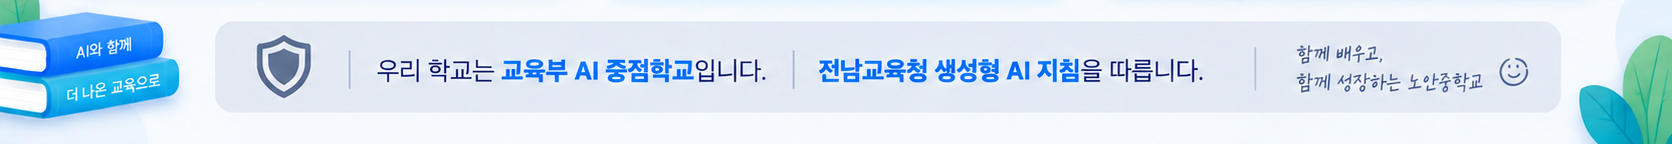
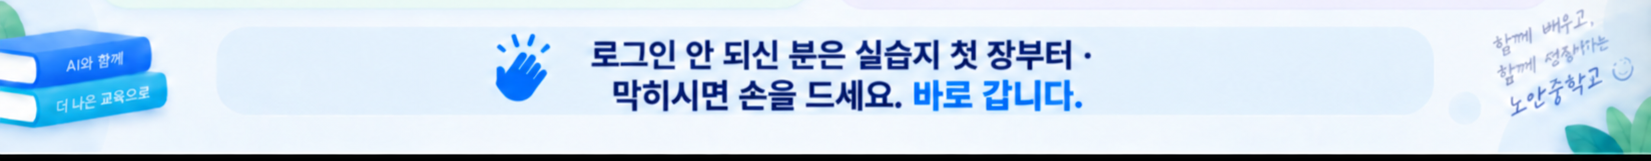
feat: 1회차 덱 v3 — 기업 변화 장 제외, 2부 실습 장 새 시안 (18장)
- 03 「기업 변화」 장을 뺀다. 이후 장은 번호만 당겨진다
- 17 「2부 실습」 을 새 시안으로 (q17-* · 검색창 칩 · QR 포함)
- 더 쓰지 않는 에셋 16개 삭제 (옛 기업 변화 w18-* · 옛 2부 실습 p16-*)
  logo.png · s01-cover.png 는 다른 페이지가 써서 남긴다

셸·CSS·deck-stage.js 는 그대로. 전체화면 잘림 수정 유지.

diff --git a/training/s1.html b/training/s1.html
@@ -114,27 +114,14 @@ video[data-scene-video]:-webkit-full-screen {
   <img src="assets/s1/v02-f.png" alt="" style="position:absolute;left:0px;top:551px;width:1280px;height:169px;display:block;--d:0.75s" data-anim="in">
 </section>
 
-<section id="s3" data-label="03 기업 변화" data-screen-label="03" data-speaker-notes="기사를 먼저 짚는다 — 「40년 쓰던 자소서가 1년 만에 바뀌었습니다」. 표는 회사 이름만 읽어도 충분하다. 오른쪽 문항은 실제 채용 공고라는 걸 강조. 아래 세 칸은 손으로 짚어가며 「기업이 보는 건 AI를 활용한 경험, 그건 수업에서 생기고, 그래서 오늘 선생님이 먼저 해보시는 겁니다」. 마지막 줄에서 잠깐 멈출 것." style="background:#f4f8ff;font-family:-apple-system,'Apple SD Gothic Neo','Malgun Gothic',system-ui,sans-serif;color:#0b2e65">
-  <img src="assets/s1/w18-head.png" alt="" style="position:absolute;left:0px;top:0px;width:1280px;height:180px;display:block;--d:0.05s" data-anim="in">
-  <img src="assets/s1/w18-news.png" alt="" style="position:absolute;left:222px;top:180px;width:249px;height:302px;display:block;--d:0.5s" data-anim="slide-slow">
-  <img src="assets/s1/w18-table.png" alt="" style="position:absolute;left:471px;top:180px;width:491px;height:302px;display:block;--d:1.1s" data-anim="slide-slow">
-  <img src="assets/s1/w18-rbox.png" alt="" style="position:absolute;left:962px;top:180px;width:318px;height:302px;display:block;--d:1.7s" data-anim="slide-slow">
-  <img src="assets/s1/w18-left.png" alt="" style="position:absolute;left:0px;top:180px;width:222px;height:540px;display:block;--d:2.2s" data-anim="in">
-  <img src="assets/s1/w18-f1.png" alt="" style="position:absolute;left:222px;top:482px;width:366px;height:126px;display:block;--d:2.7s" data-anim="slide-slow">
-  <img src="assets/s1/w18-f2.png" alt="" style="position:absolute;left:588px;top:482px;width:354px;height:126px;display:block;--d:3.2s" data-anim="slide-slow">
-  <img src="assets/s1/w18-f3.png" alt="" style="position:absolute;left:942px;top:482px;width:185px;height:126px;display:block;--d:3.7s" data-anim="slide-slow">
-  <img src="assets/s1/w18-side.png" alt="" style="position:absolute;left:1127px;top:482px;width:153px;height:238px;display:block;--d:4.1s" data-anim="in">
-  <img src="assets/s1/w18-banner.png" alt="" style="position:absolute;left:222px;top:608px;width:905px;height:112px;display:block;--d:4.5s" data-anim="in">
-</section>
-
-<section id="s4" data-label="04 오늘 끝나면 세 가지" data-screen-label="04" data-speaker-notes="30초. 「실습은 2부에 15분, 짝으로 합니다」를 여기서. 03번 「내일 쓸 것 하나」는 마지막 설문에서 한 줄 적어 가시는 것이라고 짚어준다." style="background:#f4f8ff;font-family:-apple-system,'Apple SD Gothic Neo','Malgun Gothic',system-ui,sans-serif;color:#14161c">
+<section id="s3" data-label="03 오늘 끝나면 세 가지" data-screen-label="03" data-speaker-notes="30초. 「실습은 2부에 15분, 짝으로 합니다」를 여기서. 03번 「내일 쓸 것 하나」는 마지막 설문에서 한 줄 적어 가시는 것이라고 짚어준다." style="background:#f4f8ff;font-family:-apple-system,'Apple SD Gothic Neo','Malgun Gothic',system-ui,sans-serif;color:#14161c">
   <img src="assets/s1/v04-h.png" alt="" style="position:absolute;left:0px;top:0px;width:1280px;height:223px;display:block;--d:0.04s" data-anim="in">
   <img src="assets/s1/v04-c1.png" alt="" style="position:absolute;left:0px;top:223px;width:484px;height:497px;display:block;--d:0.35s" data-anim="slide">
   <img src="assets/s1/v04-c2.png" alt="" style="position:absolute;left:484px;top:223px;width:314px;height:497px;display:block;--d:0.6s" data-anim="slide">
   <img src="assets/s1/v04-c3.png" alt="" style="position:absolute;left:798px;top:223px;width:482px;height:497px;display:block;--d:0.85s" data-anim="slide">
 </section>
 
-<section id="s5" data-label="05 지금 어디쯤" data-screen-label="05" data-speaker-notes="30초. 「진입이어도 전혀 문제없습니다」를 반드시 말할 것. 사전 설문에도 같은 문항이 있으니 12월에 비교한다." style="background:#f4f8ff;font-family:-apple-system,'Apple SD Gothic Neo','Malgun Gothic',system-ui,sans-serif;color:#14161c">
+<section id="s4" data-label="04 지금 어디쯤" data-screen-label="04" data-speaker-notes="30초. 「진입이어도 전혀 문제없습니다」를 반드시 말할 것. 사전 설문에도 같은 문항이 있으니 12월에 비교한다." style="background:#f4f8ff;font-family:-apple-system,'Apple SD Gothic Neo','Malgun Gothic',system-ui,sans-serif;color:#14161c">
   <img src="assets/s1/b04-h.png" alt="" style="position:absolute;left:0px;top:0px;width:1280px;height:224px;display:block;--d:0.04s" data-anim="in">
   <img src="assets/s1/b04-c1.png" alt="" style="position:absolute;left:0px;top:224px;width:469px;height:284px;display:block;--d:0.26s" data-anim="slide">
   <img src="assets/s1/b04-c2.png" alt="" style="position:absolute;left:469px;top:224px;width:351px;height:284px;display:block;--d:0.42000000000000004s" data-anim="slide">
@@ -142,7 +129,7 @@ video[data-scene-video]:-webkit-full-screen {
   <img src="assets/s1/b04-f.png" alt="" style="position:absolute;left:0px;top:508px;width:1280px;height:212px;display:block;--d:0.78s" data-anim="in">
 </section>
 
-<section id="s6" data-label="06 소개" data-screen-label="06" data-speaker-notes="40초. 항목을 다 읽지 말 것. 「LG전자 DX School 5기 최우수상, 다섯 명 팀 총괄」 한 줄과 사진 캡션 「제8회 K-디지털 트레이닝 해커톤 현장」만 짚는다. 수상 세 줄·학력·활동은 화면에 있으니 눈으로 보시게 둔다. 소리 내어 말할 문장은 마지막 「AI를 만들고, 교육합니다」 하나. 여기서 길어지면 뒤가 밀린다." style="background:#f4f8ff;font-family:-apple-system,'Apple SD Gothic Neo','Malgun Gothic',system-ui,sans-serif;color:#0b2e65">
+<section id="s5" data-label="05 소개" data-screen-label="05" data-speaker-notes="40초. 항목을 다 읽지 말 것. 「LG전자 DX School 5기 최우수상, 다섯 명 팀 총괄」 한 줄과 사진 캡션 「제8회 K-디지털 트레이닝 해커톤 현장」만 짚는다. 수상 세 줄·학력·활동은 화면에 있으니 눈으로 보시게 둔다. 소리 내어 말할 문장은 마지막 「AI를 만들고, 교육합니다」 하나. 여기서 길어지면 뒤가 밀린다." style="background:#f4f8ff;font-family:-apple-system,'Apple SD Gothic Neo','Malgun Gothic',system-ui,sans-serif;color:#0b2e65">
   <img src="assets/s1/y06-h.png" alt="" style="position:absolute;left:0px;top:0px;width:1280px;height:42px;display:block;--d:0.05s" data-anim="in">
   <img src="assets/s1/y06-lname.png" alt="" style="position:absolute;left:0px;top:42px;width:459px;height:308px;display:block;--d:0.3s" data-anim="in">
   <img src="assets/s1/y06-lbox.png" alt="" style="position:absolute;left:0px;top:350px;width:459px;height:212px;display:block;--d:0.7s" data-anim="in">
@@ -154,7 +141,7 @@ video[data-scene-video]:-webkit-full-screen {
   <img src="assets/s1/y06-r4.png" alt="" style="position:absolute;left:459px;top:580px;width:821px;height:140px;display:block;--d:3.1s" data-anim="slide-slow">
 </section>
 
-<section id="s7" data-label="07 세 가지가 바뀌었다" data-screen-label="07" data-speaker-notes="여기서 기술 용어(LLM, 에이전트, 멀티모달) 쓰지 말 것. 변화 3만 짚고 넘어간다." style="background:#f4f8ff;font-family:-apple-system,'Apple SD Gothic Neo','Malgun Gothic',system-ui,sans-serif;color:#14161c">
+<section id="s6" data-label="06 세 가지가 바뀌었다" data-screen-label="06" data-speaker-notes="여기서 기술 용어(LLM, 에이전트, 멀티모달) 쓰지 말 것. 변화 3만 짚고 넘어간다." style="background:#f4f8ff;font-family:-apple-system,'Apple SD Gothic Neo','Malgun Gothic',system-ui,sans-serif;color:#14161c">
   <img src="assets/s1/b06-h.png" alt="" style="position:absolute;left:0px;top:0px;width:1280px;height:248px;display:block;--d:0.04s" data-anim="in">
   <img src="assets/s1/b06-c1.png" alt="" style="position:absolute;left:0px;top:248px;width:472px;height:387px;display:block;--d:0.35s" data-anim="slide-slow">
   <img src="assets/s1/b06-c2.png" alt="" style="position:absolute;left:472px;top:248px;width:341px;height:387px;display:block;--d:0.85s" data-anim="slide-slow">
@@ -162,12 +149,12 @@ video[data-scene-video]:-webkit-full-screen {
   <img src="assets/s1/b06-f.png" alt="" style="position:absolute;left:0px;top:635px;width:1280px;height:85px;display:block;--d:1.85s" data-anim="in">
 </section>
 
-<section id="s8" data-label="08 영상" data-screen-label="08" data-speaker-notes="영상으로 먼저 보여드린다. 말은 얹지 말고, 끝난 뒤 「이런 걸 오늘 해봅니다」 한 문장만. 소리 없이 돌린다." style="background:#f4f8ff;font-family:-apple-system,'Apple SD Gothic Neo','Malgun Gothic',system-ui,sans-serif;color:#0b2e65">
+<section id="s7" data-label="07 영상" data-screen-label="07" data-speaker-notes="영상으로 먼저 보여드린다. 말은 얹지 말고, 끝난 뒤 「이런 걸 오늘 해봅니다」 한 문장만. 소리 없이 돌린다." style="background:#f4f8ff;font-family:-apple-system,'Apple SD Gothic Neo','Malgun Gothic',system-ui,sans-serif;color:#0b2e65">
   <video data-scene-video="" src="assets/s1/s07b-intro.mp4" muted="" loop="" playsinline="" preload="auto" style="position:absolute;left:454px;top:30px;width:371px;height:660px;border-radius:16px;object-fit:cover;display:block;background:#dbe3ec;border:0;--d:0s"></video>
   <div data-video-controls="" style="position:absolute;left:845px;top:606px;width:116px;height:52px;display:flex;gap:12px;align-items:center;justify-content:flex-end;--d:0.35s" data-anim="in"><button type="button" data-vc="toggle" aria-label="재생·일시정지" style="width:52px;height:52px;border:0;border-radius:9999px;background:rgba(11,46,101,.72);color:#fff;display:flex;align-items:center;justify-content:center;cursor:pointer;padding:0;box-shadow:0 2px 10px rgba(11,46,101,.28)"><span style="display:flex;align-items:center;justify-content:center"><svg width="22" height="22" viewBox="0 0 24 24" fill="currentColor" data-vc-play=""><path d="M8 5.5v13l11-6.5z"></path></svg><svg width="22" height="22" viewBox="0 0 24 24" fill="currentColor" data-vc-pause="" style="display:none"><path d="M7 5h3.4v14H7zM13.6 5H17v14h-3.4z"></path></svg></span></button><button type="button" data-vc="full" aria-label="전체화면" style="width:52px;height:52px;border:0;border-radius:9999px;background:rgba(11,46,101,.72);color:#fff;display:flex;align-items:center;justify-content:center;cursor:pointer;padding:0;box-shadow:0 2px 10px rgba(11,46,101,.28)"><span style="display:flex;align-items:center;justify-content:center"><svg data-vc-open="" width="22" height="22" viewBox="0 0 24 24" fill="none" stroke="currentColor" stroke-width="2.2" stroke-linecap="round" stroke-linejoin="round"><path d="M4 9V4h5M20 9V4h-5M4 15v5h5M20 15v5h-5"></path></svg><svg data-vc-close="" width="22" height="22" viewBox="0 0 24 24" fill="none" stroke="currentColor" stroke-width="2.2" stroke-linecap="round" stroke-linejoin="round" style="display:none"><path d="M9 4v5H4M15 4v5h5M9 20v-5H4M15 20v-5h5"></path></svg></span></button></div>
 </section>
 
-<section id="s9" data-label="09 전체 지도" data-screen-label="09" data-speaker-notes="[시간 부족 시 생략 가능] 카드가 하나씩 나옵니다. 나오는 대로 카테고리 이름만 읽어드린다 — 도구 이름은 읽지 말 것. 일곱 장이 다 나오는 데 7초. 마지막 파란 띠 「도구는 많지만, 오늘은 다 보지 않습니다」에서 멈추고 다음 장으로." style="background:#f4f8ff;font-family:-apple-system,'Apple SD Gothic Neo','Malgun Gothic',system-ui,sans-serif;color:#0b2e65">
+<section id="s8" data-label="08 전체 지도" data-screen-label="08" data-speaker-notes="[시간 부족 시 생략 가능] 카드가 하나씩 나옵니다. 나오는 대로 카테고리 이름만 읽어드린다 — 도구 이름은 읽지 말 것. 일곱 장이 다 나오는 데 7초. 마지막 파란 띠 「도구는 많지만, 오늘은 다 보지 않습니다」에서 멈추고 다음 장으로." style="background:#f4f8ff;font-family:-apple-system,'Apple SD Gothic Neo','Malgun Gothic',system-ui,sans-serif;color:#0b2e65">
   <img src="assets/s1/m07-h.png" alt="" style="position:absolute;left:0px;top:0px;width:1280px;height:205px;display:block;--d:0.05s" data-anim="in">
   <img src="assets/s1/m07-a1.png" alt="" style="position:absolute;left:0px;top:205px;width:342px;height:180px;display:block;--d:0.5s" data-anim="slide-slow">
   <img src="assets/s1/m07-a2.png" alt="" style="position:absolute;left:342px;top:205px;width:318px;height:180px;display:block;--d:1.4s" data-anim="slide-slow">
@@ -181,7 +168,7 @@ video[data-scene-video]:-webkit-full-screen {
   <img src="assets/s1/box-miri.png" alt="" style="position:absolute;left:377px;top:321px;width:116px;height:41px;display:block;border-radius:8px;--d:7.9s" data-anim="pop">
 </section>
 
-<section id="s10" data-label="10 오늘 쓸 건 둘" data-screen-label="10" data-speaker-notes="이제 둘만 씁니다. 「쓰고 고치고 찾는 일은 JneGPT, 보여줄 것 만드는 일은 미리캔버스」 한 문장으로. 아래 목록은 읽지 말 것 — 다음 장면에서 다 보여준다. 마지막 띠 「둘 다 아이모두 안에 있습니다」는 반드시 짚는다." style="background:#f4f8ff;font-family:-apple-system,'Apple SD Gothic Neo','Malgun Gothic',system-ui,sans-serif;color:#0b2e65">
+<section id="s9" data-label="09 오늘 쓸 건 둘" data-screen-label="09" data-speaker-notes="이제 둘만 씁니다. 「쓰고 고치고 찾는 일은 JneGPT, 보여줄 것 만드는 일은 미리캔버스」 한 문장으로. 아래 목록은 읽지 말 것 — 다음 장면에서 다 보여준다. 마지막 띠 「둘 다 아이모두 안에 있습니다」는 반드시 짚는다." style="background:#f4f8ff;font-family:-apple-system,'Apple SD Gothic Neo','Malgun Gothic',system-ui,sans-serif;color:#0b2e65">
   <img src="assets/s1/u09-h.png" alt="" style="position:absolute;left:0px;top:0px;width:1280px;height:165px;display:block;--d:0.05s" data-anim="in">
   <img src="assets/s1/u09-a-logo.png" alt="" style="position:absolute;left:0px;top:165px;width:589px;height:159px;display:block;--d:0.45s" data-anim="in">
   <img src="assets/s1/u09-a-title.png" alt="" style="position:absolute;left:0px;top:324px;width:589px;height:47px;display:block;--d:0.75s" data-anim="in">
@@ -197,7 +184,7 @@ video[data-scene-video]:-webkit-full-screen {
   <img src="assets/s1/u09-f.png" alt="" style="position:absolute;left:0px;top:604px;width:1280px;height:116px;display:block;--d:3.5s" data-anim="in">
 </section>
 
-<section id="s11" data-label="11 네 장면" data-screen-label="11" data-speaker-notes="네 개를 다 익히실 필요 없다는 말을 반드시. 카드 아래 작은 설명(읽어야 할 때·찾아야 할 때·보여드려야 할 때·만들어야 할 때)만 짚고 큰 글씨는 눈으로 보시게 둔다. 순서대로 하나씩 보여드린다고 미리 알린다. 마지막 띠 「하나만 건지시면 오늘은 성공입니다」로 닫고 넘어간다." style="background:#f4f8ff;font-family:-apple-system,'Apple SD Gothic Neo','Malgun Gothic',system-ui,sans-serif;color:#14161c">
+<section id="s10" data-label="10 네 장면" data-screen-label="10" data-speaker-notes="네 개를 다 익히실 필요 없다는 말을 반드시. 카드 아래 작은 설명(읽어야 할 때·찾아야 할 때·보여드려야 할 때·만들어야 할 때)만 짚고 큰 글씨는 눈으로 보시게 둔다. 순서대로 하나씩 보여드린다고 미리 알린다. 마지막 띠 「하나만 건지시면 오늘은 성공입니다」로 닫고 넘어간다." style="background:#f4f8ff;font-family:-apple-system,'Apple SD Gothic Neo','Malgun Gothic',system-ui,sans-serif;color:#14161c">
   <img src="assets/s1/z10-h.png" alt="" style="position:absolute;left:0px;top:0px;width:1280px;height:207px;display:block;--d:0.05s" data-anim="in">
   <img src="assets/s1/z10-c1.png" alt="" style="position:absolute;left:0px;top:207px;width:338px;height:406px;display:block;--d:0.5s" data-anim="slide-slow">
   <img src="assets/s1/z10-c2.png" alt="" style="position:absolute;left:338px;top:207px;width:321px;height:406px;display:block;--d:1.05s" data-anim="slide-slow">
@@ -206,7 +193,7 @@ video[data-scene-video]:-webkit-full-screen {
   <img src="assets/s1/z10-f.png" alt="" style="position:absolute;left:0px;top:613px;width:1280px;height:107px;display:block;--d:2.8s" data-anim="in">
 </section>
 
-<section id="s12" data-label="12 장면01 긴 공문" data-screen-label="12" data-speaker-notes="핵심은 「다 읽는 게 아니라 필요한 데만 묻는 것」. 노란 박스 「문서에 없으면 없다고 쓰라 — 빼면 AI가 지어냅니다」를 반드시 소리 내어 말할 것. 왼쪽 세 줄은 하나만 골라 말한다. 시연 영상은 소리 없이 돌린다." style="background:#f4f8fe;font-family:-apple-system,'Apple SD Gothic Neo','Malgun Gothic',system-ui,sans-serif;color:#0b2e65">
+<section id="s11" data-label="11 장면01 긴 공문" data-screen-label="11" data-speaker-notes="핵심은 「다 읽는 게 아니라 필요한 데만 묻는 것」. 노란 박스 「문서에 없으면 없다고 쓰라 — 빼면 AI가 지어냅니다」를 반드시 소리 내어 말할 것. 왼쪽 세 줄은 하나만 골라 말한다. 시연 영상은 소리 없이 돌린다." style="background:#f4f8fe;font-family:-apple-system,'Apple SD Gothic Neo','Malgun Gothic',system-ui,sans-serif;color:#0b2e65">
   <img src="assets/s1/z11-left.png" alt="" style="position:absolute;left:0px;top:0px;width:338px;height:720px;display:block;--d:0.04s" data-anim="in">
   <img src="assets/s1/z11-logo.png" alt="" style="position:absolute;left:338px;top:0px;width:942px;height:130px;display:block;--d:0.3s" data-anim="in">
   <img src="assets/s1/z11-screen.png" alt="" style="position:absolute;left:338px;top:130px;width:942px;height:590px;display:block;--d:0.5s" data-anim="in">
@@ -215,7 +202,7 @@ video[data-scene-video]:-webkit-full-screen {
   <div data-video-controls="" style="position:absolute;left:1108px;top:593px;width:116px;height:52px;display:flex;gap:12px;align-items:center;justify-content:flex-end;--d:0.35s" data-anim="in"><button type="button" data-vc="toggle" aria-label="재생·일시정지" style="width:52px;height:52px;border:0;border-radius:9999px;background:rgba(11,46,101,.72);color:#fff;display:flex;align-items:center;justify-content:center;cursor:pointer;padding:0;box-shadow:0 2px 10px rgba(11,46,101,.28)"><span style="display:flex;align-items:center;justify-content:center"><svg width="22" height="22" viewBox="0 0 24 24" fill="currentColor" data-vc-play=""><path d="M8 5.5v13l11-6.5z"></path></svg><svg width="22" height="22" viewBox="0 0 24 24" fill="currentColor" data-vc-pause="" style="display:none"><path d="M7 5h3.4v14H7zM13.6 5H17v14h-3.4z"></path></svg></span></button><button type="button" data-vc="full" aria-label="전체화면" style="width:52px;height:52px;border:0;border-radius:9999px;background:rgba(11,46,101,.72);color:#fff;display:flex;align-items:center;justify-content:center;cursor:pointer;padding:0;box-shadow:0 2px 10px rgba(11,46,101,.28)"><span style="display:flex;align-items:center;justify-content:center"><svg data-vc-open="" width="22" height="22" viewBox="0 0 24 24" fill="none" stroke="currentColor" stroke-width="2.2" stroke-linecap="round" stroke-linejoin="round"><path d="M4 9V4h5M20 9V4h-5M4 15v5h5M20 15v5h-5"></path></svg><svg data-vc-close="" width="22" height="22" viewBox="0 0 24 24" fill="none" stroke="currentColor" stroke-width="2.2" stroke-linecap="round" stroke-linejoin="round" style="display:none"><path d="M9 4v5H4M15 4v5h5M9 20v-5H4M15 20v-5h5"></path></svg></span></button></div>
 </section>
 
-<section id="s13" data-label="13 장면02 자료가 여러 개" data-screen-label="13" data-speaker-notes="핵심은 「다 뒤지는 게 아니라 어디 있는지 묻는 것」. 노란 박스 「AI 말을 믿는 게 아니라, 그 쪽을 열어보는 겁니다」를 반드시 소리 내어 말할 것. 왼쪽 세 줄은 하나만 골라 말한다. 시연 영상은 소리 없이 돌린다." style="background:#f4f8ff;font-family:-apple-system,'Apple SD Gothic Neo','Malgun Gothic',system-ui,sans-serif;color:#0b2e65">
+<section id="s12" data-label="12 장면02 자료가 여러 개" data-screen-label="12" data-speaker-notes="핵심은 「다 뒤지는 게 아니라 어디 있는지 묻는 것」. 노란 박스 「AI 말을 믿는 게 아니라, 그 쪽을 열어보는 겁니다」를 반드시 소리 내어 말할 것. 왼쪽 세 줄은 하나만 골라 말한다. 시연 영상은 소리 없이 돌린다." style="background:#f4f8ff;font-family:-apple-system,'Apple SD Gothic Neo','Malgun Gothic',system-ui,sans-serif;color:#0b2e65">
   <img src="assets/s1/z12-left.png" alt="" style="position:absolute;left:0px;top:0px;width:402px;height:720px;display:block;--d:0.04s" data-anim="in">
   <img src="assets/s1/z12-logo.png" alt="" style="position:absolute;left:402px;top:0px;width:878px;height:78px;display:block;--d:0.3s" data-anim="in">
   <img src="assets/s1/z12-screen.png" alt="" style="position:absolute;left:402px;top:78px;width:878px;height:642px;display:block;--d:0.5s" data-anim="in">
@@ -224,7 +211,7 @@ video[data-scene-video]:-webkit-full-screen {
   <div data-video-controls="" style="position:absolute;left:1095px;top:577px;width:116px;height:52px;display:flex;gap:12px;align-items:center;justify-content:flex-end;--d:0.35s" data-anim="in"><button type="button" data-vc="toggle" aria-label="재생·일시정지" style="width:52px;height:52px;border:0;border-radius:9999px;background:rgba(11,46,101,.72);color:#fff;display:flex;align-items:center;justify-content:center;cursor:pointer;padding:0;box-shadow:0 2px 10px rgba(11,46,101,.28)"><span style="display:flex;align-items:center;justify-content:center"><svg width="22" height="22" viewBox="0 0 24 24" fill="currentColor" data-vc-play=""><path d="M8 5.5v13l11-6.5z"></path></svg><svg width="22" height="22" viewBox="0 0 24 24" fill="currentColor" data-vc-pause="" style="display:none"><path d="M7 5h3.4v14H7zM13.6 5H17v14h-3.4z"></path></svg></span></button><button type="button" data-vc="full" aria-label="전체화면" style="width:52px;height:52px;border:0;border-radius:9999px;background:rgba(11,46,101,.72);color:#fff;display:flex;align-items:center;justify-content:center;cursor:pointer;padding:0;box-shadow:0 2px 10px rgba(11,46,101,.28)"><span style="display:flex;align-items:center;justify-content:center"><svg data-vc-open="" width="22" height="22" viewBox="0 0 24 24" fill="none" stroke="currentColor" stroke-width="2.2" stroke-linecap="round" stroke-linejoin="round"><path d="M4 9V4h5M20 9V4h-5M4 15v5h5M20 15v5h-5"></path></svg><svg data-vc-close="" width="22" height="22" viewBox="0 0 24 24" fill="none" stroke="currentColor" stroke-width="2.2" stroke-linecap="round" stroke-linejoin="round" style="display:none"><path d="M9 4v5H4M15 4v5h5M9 20v-5H4M15 20v-5h5"></path></svg></span></button></div>
 </section>
 
-<section id="s14" data-label="14 장면03 설명할 자료" data-screen-label="14" data-speaker-notes="핵심은 「빈 화면에서 시작하는 게 아니라 골라서 고치는 것」. 노란 박스 「0에서 만들지 마세요 — 80에서 고치시면 됩니다」를 반드시 소리 내어 말할 것. 왼쪽 세 줄은 하나만 골라 말한다. 시연 영상은 소리 없이 돌린다." style="background:#f4f8ff;font-family:-apple-system,'Apple SD Gothic Neo','Malgun Gothic',system-ui,sans-serif;color:#0b2e65">
+<section id="s13" data-label="13 장면03 설명할 자료" data-screen-label="13" data-speaker-notes="핵심은 「빈 화면에서 시작하는 게 아니라 골라서 고치는 것」. 노란 박스 「0에서 만들지 마세요 — 80에서 고치시면 됩니다」를 반드시 소리 내어 말할 것. 왼쪽 세 줄은 하나만 골라 말한다. 시연 영상은 소리 없이 돌린다." style="background:#f4f8ff;font-family:-apple-system,'Apple SD Gothic Neo','Malgun Gothic',system-ui,sans-serif;color:#0b2e65">
   <img src="assets/s1/z13-left.png" alt="" style="position:absolute;left:0px;top:0px;width:394px;height:720px;display:block;--d:0.04s" data-anim="in">
   <img src="assets/s1/z13-logo.png" alt="" style="position:absolute;left:394px;top:0px;width:886px;height:134px;display:block;--d:0.3s" data-anim="in">
   <img src="assets/s1/z13-screen.png" alt="" style="position:absolute;left:394px;top:134px;width:886px;height:586px;display:block;--d:0.5s" data-anim="in">
@@ -233,7 +220,7 @@ video[data-scene-video]:-webkit-full-screen {
   <div data-video-controls="" style="position:absolute;left:1103px;top:588px;width:116px;height:52px;display:flex;gap:12px;align-items:center;justify-content:flex-end;--d:0.35s" data-anim="in"><button type="button" data-vc="toggle" aria-label="재생·일시정지" style="width:52px;height:52px;border:0;border-radius:9999px;background:rgba(11,46,101,.72);color:#fff;display:flex;align-items:center;justify-content:center;cursor:pointer;padding:0;box-shadow:0 2px 10px rgba(11,46,101,.28)"><span style="display:flex;align-items:center;justify-content:center"><svg width="22" height="22" viewBox="0 0 24 24" fill="currentColor" data-vc-play=""><path d="M8 5.5v13l11-6.5z"></path></svg><svg width="22" height="22" viewBox="0 0 24 24" fill="currentColor" data-vc-pause="" style="display:none"><path d="M7 5h3.4v14H7zM13.6 5H17v14h-3.4z"></path></svg></span></button><button type="button" data-vc="full" aria-label="전체화면" style="width:52px;height:52px;border:0;border-radius:9999px;background:rgba(11,46,101,.72);color:#fff;display:flex;align-items:center;justify-content:center;cursor:pointer;padding:0;box-shadow:0 2px 10px rgba(11,46,101,.28)"><span style="display:flex;align-items:center;justify-content:center"><svg data-vc-open="" width="22" height="22" viewBox="0 0 24 24" fill="none" stroke="currentColor" stroke-width="2.2" stroke-linecap="round" stroke-linejoin="round"><path d="M4 9V4h5M20 9V4h-5M4 15v5h5M20 15v5h-5"></path></svg><svg data-vc-close="" width="22" height="22" viewBox="0 0 24 24" fill="none" stroke="currentColor" stroke-width="2.2" stroke-linecap="round" stroke-linejoin="round" style="display:none"><path d="M9 4v5H4M15 4v5h5M9 20v-5H4M15 20v-5h5"></path></svg></span></button></div>
 </section>
 
-<section id="s15" data-label="15 장면04 활동지·문항" data-screen-label="15" data-speaker-notes="핵심은 「시키는 게 아니라 조건을 주는 것」. 노란 박스 「답은 다 맞습니다 — 우리 반이 어디까지 나갔는지는 AI가 모릅니다」를 반드시 소리 내어 말할 것. 이 장면이 바로 뒤 실습 주제다." style="background:#f4f8ff;font-family:-apple-system,'Apple SD Gothic Neo','Malgun Gothic',system-ui,sans-serif;color:#0b2e65">
+<section id="s14" data-label="14 장면04 활동지·문항" data-screen-label="14" data-speaker-notes="핵심은 「시키는 게 아니라 조건을 주는 것」. 노란 박스 「답은 다 맞습니다 — 우리 반이 어디까지 나갔는지는 AI가 모릅니다」를 반드시 소리 내어 말할 것. 이 장면이 바로 뒤 실습 주제다." style="background:#f4f8ff;font-family:-apple-system,'Apple SD Gothic Neo','Malgun Gothic',system-ui,sans-serif;color:#0b2e65">
   <img src="assets/s1/z14-left.png" alt="" style="position:absolute;left:0px;top:0px;width:406px;height:720px;display:block;--d:0.04s" data-anim="in">
   <img src="assets/s1/z14-logo.png" alt="" style="position:absolute;left:406px;top:0px;width:874px;height:145px;display:block;--d:0.3s" data-anim="in">
   <img src="assets/s1/z14-screen.png" alt="" style="position:absolute;left:406px;top:145px;width:874px;height:575px;display:block;--d:0.5s" data-anim="in">
@@ -242,7 +229,7 @@ video[data-scene-video]:-webkit-full-screen {
   <div data-video-controls="" style="position:absolute;left:1098px;top:566px;width:116px;height:52px;display:flex;gap:12px;align-items:center;justify-content:flex-end;--d:0.35s" data-anim="in"><button type="button" data-vc="toggle" aria-label="재생·일시정지" style="width:52px;height:52px;border:0;border-radius:9999px;background:rgba(11,46,101,.72);color:#fff;display:flex;align-items:center;justify-content:center;cursor:pointer;padding:0;box-shadow:0 2px 10px rgba(11,46,101,.28)"><span style="display:flex;align-items:center;justify-content:center"><svg width="22" height="22" viewBox="0 0 24 24" fill="currentColor" data-vc-play=""><path d="M8 5.5v13l11-6.5z"></path></svg><svg width="22" height="22" viewBox="0 0 24 24" fill="currentColor" data-vc-pause="" style="display:none"><path d="M7 5h3.4v14H7zM13.6 5H17v14h-3.4z"></path></svg></span></button><button type="button" data-vc="full" aria-label="전체화면" style="width:52px;height:52px;border:0;border-radius:9999px;background:rgba(11,46,101,.72);color:#fff;display:flex;align-items:center;justify-content:center;cursor:pointer;padding:0;box-shadow:0 2px 10px rgba(11,46,101,.28)"><span style="display:flex;align-items:center;justify-content:center"><svg data-vc-open="" width="22" height="22" viewBox="0 0 24 24" fill="none" stroke="currentColor" stroke-width="2.2" stroke-linecap="round" stroke-linejoin="round"><path d="M4 9V4h5M20 9V4h-5M4 15v5h5M20 15v5h-5"></path></svg><svg data-vc-close="" width="22" height="22" viewBox="0 0 24 24" fill="none" stroke="currentColor" stroke-width="2.2" stroke-linecap="round" stroke-linejoin="round" style="display:none"><path d="M9 4v5H4M15 4v5h5M9 20v-5H4M15 20v-5h5"></path></svg></span></button></div>
 </section>
 
-<section id="s16" data-label="16 세 가지로 정리" data-screen-label="16" data-speaker-notes="네 장면을 셋으로 묶어주는 장. 카드 셋이 차례로 나오니 「쓰고 고치기 · 읽고 찾기 · 만들고 보여주기」만 짚는다. 카드 안 작은 글씨와 태그는 읽지 말 것. 마지막 띠에서 실습 두 개를 예고하고 바로 넘어간다." style="background:#f4f8ff;font-family:-apple-system,'Apple SD Gothic Neo','Malgun Gothic',system-ui,sans-serif;color:#0b2e65">
+<section id="s15" data-label="15 세 가지로 정리" data-screen-label="15" data-speaker-notes="네 장면을 셋으로 묶어주는 장. 카드 셋이 차례로 나오니 「쓰고 고치기 · 읽고 찾기 · 만들고 보여주기」만 짚는다. 카드 안 작은 글씨와 태그는 읽지 말 것. 마지막 띠에서 실습 두 개를 예고하고 바로 넘어간다." style="background:#f4f8ff;font-family:-apple-system,'Apple SD Gothic Neo','Malgun Gothic',system-ui,sans-serif;color:#0b2e65">
   <img src="assets/s1/w15-h.png" alt="" style="position:absolute;left:0px;top:0px;width:1280px;height:226px;display:block;--d:0.05s" data-anim="in">
   <img src="assets/s1/w15-c1.png" alt="" style="position:absolute;left:0px;top:226px;width:437px;height:322px;display:block;--d:0.5s" data-anim="slide-slow">
   <img src="assets/s1/w15-c2.png" alt="" style="position:absolute;left:437px;top:226px;width:378px;height:322px;display:block;--d:1s" data-anim="slide-slow">
@@ -250,7 +237,7 @@ video[data-scene-video]:-webkit-full-screen {
   <img src="assets/s1/w15-f.png" alt="" style="position:absolute;left:0px;top:548px;width:1280px;height:172px;display:block;--d:2.1s" data-anim="in">
 </section>
 
-<section id="s17" data-label="17 규칙 셋" data-screen-label="17" data-speaker-notes="겁주지 않는다. 「나머지는 편하게 쓰셔도 됩니다」를 먼저 말하고 시작할 것. 1번(학생 이름·연락처·성적·상담 기록은 넣지 않는다)이 이 장의 핵심 — 나머지 둘은 짧게. 2번의 「AI는 모른다고 하지 않고 그럴듯하게 틀립니다」는 반드시 소리 내어 말한다. 하단 근거(교육부 AI 중점학교·전남교육청 지침)는 읽지 말고 짚기만." style="background:#f4f8ff;font-family:-apple-system,'Apple SD Gothic Neo','Malgun Gothic',system-ui,sans-serif;color:#0b2e65">
+<section id="s16" data-label="16 규칙 셋" data-screen-label="16" data-speaker-notes="겁주지 않는다. 「나머지는 편하게 쓰셔도 됩니다」를 먼저 말하고 시작할 것. 1번(학생 이름·연락처·성적·상담 기록은 넣지 않는다)이 이 장의 핵심 — 나머지 둘은 짧게. 2번의 「AI는 모른다고 하지 않고 그럴듯하게 틀립니다」는 반드시 소리 내어 말한다. 하단 근거(교육부 AI 중점학교·전남교육청 지침)는 읽지 말고 짚기만." style="background:#f4f8ff;font-family:-apple-system,'Apple SD Gothic Neo','Malgun Gothic',system-ui,sans-serif;color:#0b2e65">
   <img src="assets/s1/q17-h.png" alt="" style="position:absolute;left:0px;top:0px;width:1280px;height:198px;display:block;--d:0.05s" data-anim="in">
   <img src="assets/s1/q17-c1.png" alt="" style="position:absolute;left:0px;top:198px;width:454px;height:412px;display:block;--d:0.5s" data-anim="slide-slow">
   <img src="assets/s1/q17-c2.png" alt="" style="position:absolute;left:454px;top:198px;width:367px;height:412px;display:block;--d:1.6s" data-anim="slide-slow">
@@ -258,16 +245,17 @@ video[data-scene-video]:-webkit-full-screen {
   <img src="assets/s1/q17-f.png" alt="" style="position:absolute;left:0px;top:610px;width:1280px;height:110px;display:block;--d:3.9s" data-anim="in">
 </section>
 
-<section id="s18" data-label="18 2부 실습" data-screen-label="18" data-speaker-notes="검색창이 먼저 나옵니다 — 「외우실 필요 없습니다」가 이 장의 전부다. 실습 1은 8분, 실습 2는 15분. 짝과 함께 하시게 한다. 「막히시면 손을 드세요」를 반드시 소리 내어 말할 것. QR은 오늘 안 쓰는 열한 개 안내서다 — 필요하신 분만 찍으라고 한 마디." style="background:#f4f8ff;font-family:-apple-system,'Apple SD Gothic Neo','Malgun Gothic',system-ui,sans-serif;color:#0b2e65">
-  <img src="assets/s1/p16-h.png" alt="" style="position:absolute;left:0px;top:0px;width:1280px;height:276px;display:block;--d:0.05s" data-anim="in">
-  <img src="assets/s1/p16-m1.png" alt="" style="position:absolute;left:0px;top:276px;width:1280px;height:71px;display:block;--d:0.5s" data-anim="in">
-  <img src="assets/s1/p16-m2.png" alt="" style="position:absolute;left:0px;top:347px;width:1280px;height:67px;display:block;--d:1.1s" data-anim="in">
-  <img src="assets/s1/p16-c1.png" alt="" style="position:absolute;left:0px;top:414px;width:642px;height:185px;display:block;--d:1.9s" data-anim="slide-slow">
-  <img src="assets/s1/p16-c2.png" alt="" style="position:absolute;left:642px;top:414px;width:638px;height:185px;display:block;--d:2.7s" data-anim="slide-slow">
-  <img src="assets/s1/p16-f.png" alt="" style="position:absolute;left:0px;top:599px;width:1280px;height:121px;display:block;--d:3.5s" data-anim="in">
+<section id="s17" data-label="17 2부 실습" data-screen-label="17" data-speaker-notes="검색창이 먼저 나옵니다 — 「외우실 필요 없습니다. 하시려는 일을 한 줄 치시면 됩니다」가 이 장의 전부다. 칩 네 개는 읽지 말 것. 실습 1은 12분, 실습 2는 13분. 짝과 함께 하시게 한다. 「로그인 안 되신 분은 실습지 첫 장부터」와 「막히시면 손을 드세요. 바로 갑니다」를 반드시 소리 내어 말할 것. QR은 오늘 본 네 장면 외 예시 모음이다 — 필요하신 분만 찍으라고 한 마디." style="background:#f4f8ff;font-family:-apple-system,'Apple SD Gothic Neo','Malgun Gothic',system-ui,sans-serif;color:#0b2e65">
+  <img src="assets/s1/q17-h.png" alt="" style="position:absolute;left:0px;top:0px;width:1280px;height:290px;display:block;--d:0.05s" data-anim="in">
+  <img src="assets/s1/q17-chips.png" alt="" style="position:absolute;left:0px;top:290px;width:1031px;height:64px;display:block;--d:0.6s" data-anim="in">
+  <img src="assets/s1/q17-line.png" alt="" style="position:absolute;left:0px;top:354px;width:1031px;height:63px;display:block;--d:1.1s" data-anim="in">
+  <img src="assets/s1/q17-qr.png" alt="" style="position:absolute;left:1031px;top:290px;width:249px;height:310px;display:block;--d:1.5s" data-anim="in">
+  <img src="assets/s1/q17-c1.png" alt="" style="position:absolute;left:0px;top:417px;width:612px;height:181px;display:block;--d:2.1s" data-anim="slide-slow">
+  <img src="assets/s1/q17-c2.png" alt="" style="position:absolute;left:612px;top:417px;width:419px;height:181px;display:block;--d:2.8s" data-anim="slide-slow">
+  <img src="assets/s1/q17-f.png" alt="" style="position:absolute;left:0px;top:598px;width:1280px;height:122px;display:block;--d:3.5s" data-anim="in">
 </section>
 
-<section id="s19" data-label="19 마무리" data-screen-label="19" data-speaker-notes="QR을 먼저 띄우고 「2분만」이라고 한 마디. 설문에서 두 개 고르시는 게 다음 회차 주제가 된다는 걸 분명히 말할 것 — 여기가 이 연수의 진짜 목적이다. 「수·목 오전 교무실에 있습니다」도 반드시. 마지막 줄 「오늘 하나만 손에 붙으면 성공입니다」로 닫는다." style="background:#f4f8ff;font-family:-apple-system,'Apple SD Gothic Neo','Malgun Gothic',system-ui,sans-serif;color:#0b2e65">
+<section id="s18" data-label="18 마무리" data-screen-label="18" data-speaker-notes="QR을 먼저 띄우고 「2분만」이라고 한 마디. 설문에서 두 개 고르시는 게 다음 회차 주제가 된다는 걸 분명히 말할 것 — 여기가 이 연수의 진짜 목적이다. 「수·목 오전 교무실에 있습니다」도 반드시. 마지막 줄 「오늘 하나만 손에 붙으면 성공입니다」로 닫는다." style="background:#f4f8ff;font-family:-apple-system,'Apple SD Gothic Neo','Malgun Gothic',system-ui,sans-serif;color:#0b2e65">
   <img src="assets/s1/z18-h.png" alt="" style="position:absolute;left:0px;top:0px;width:1280px;height:224px;display:block;--d:0.05s" data-anim="in">
   <img src="assets/s1/z18-qr.png" alt="" style="position:absolute;left:0px;top:224px;width:536px;height:352px;display:block;--d:0.5s" data-anim="in">
   <img src="assets/s1/z18-r1.png" alt="" style="position:absolute;left:536px;top:224px;width:744px;height:119px;display:block;--d:1s" data-anim="slide-slow">
